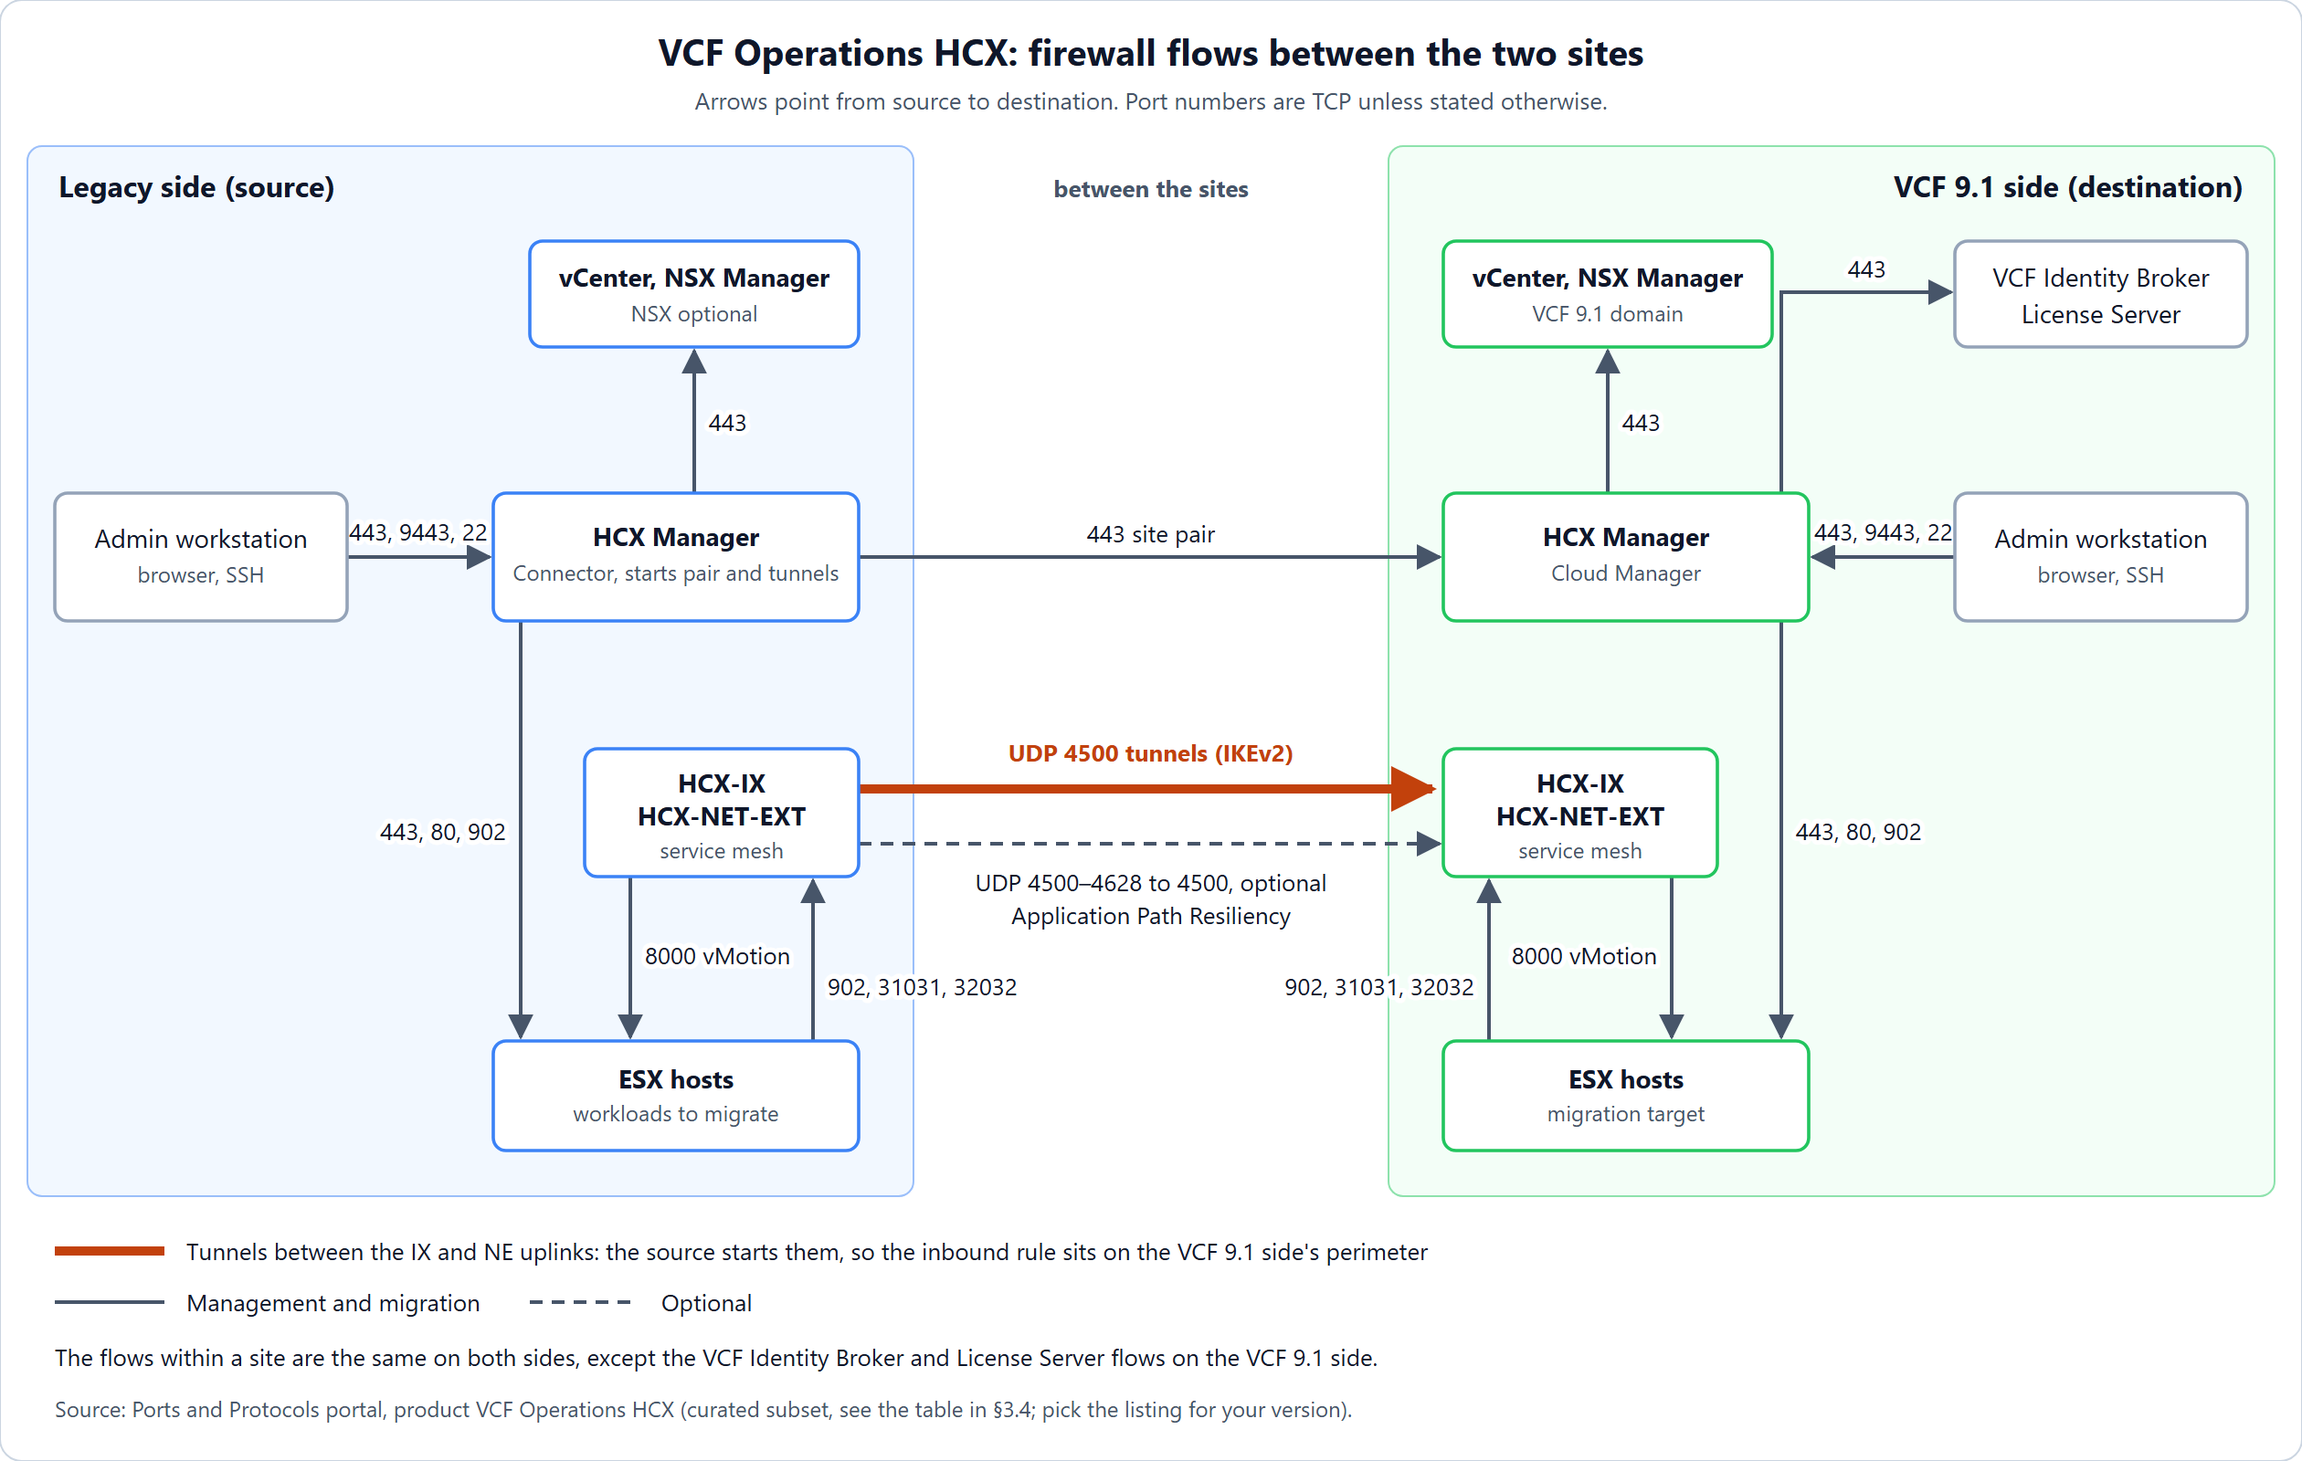
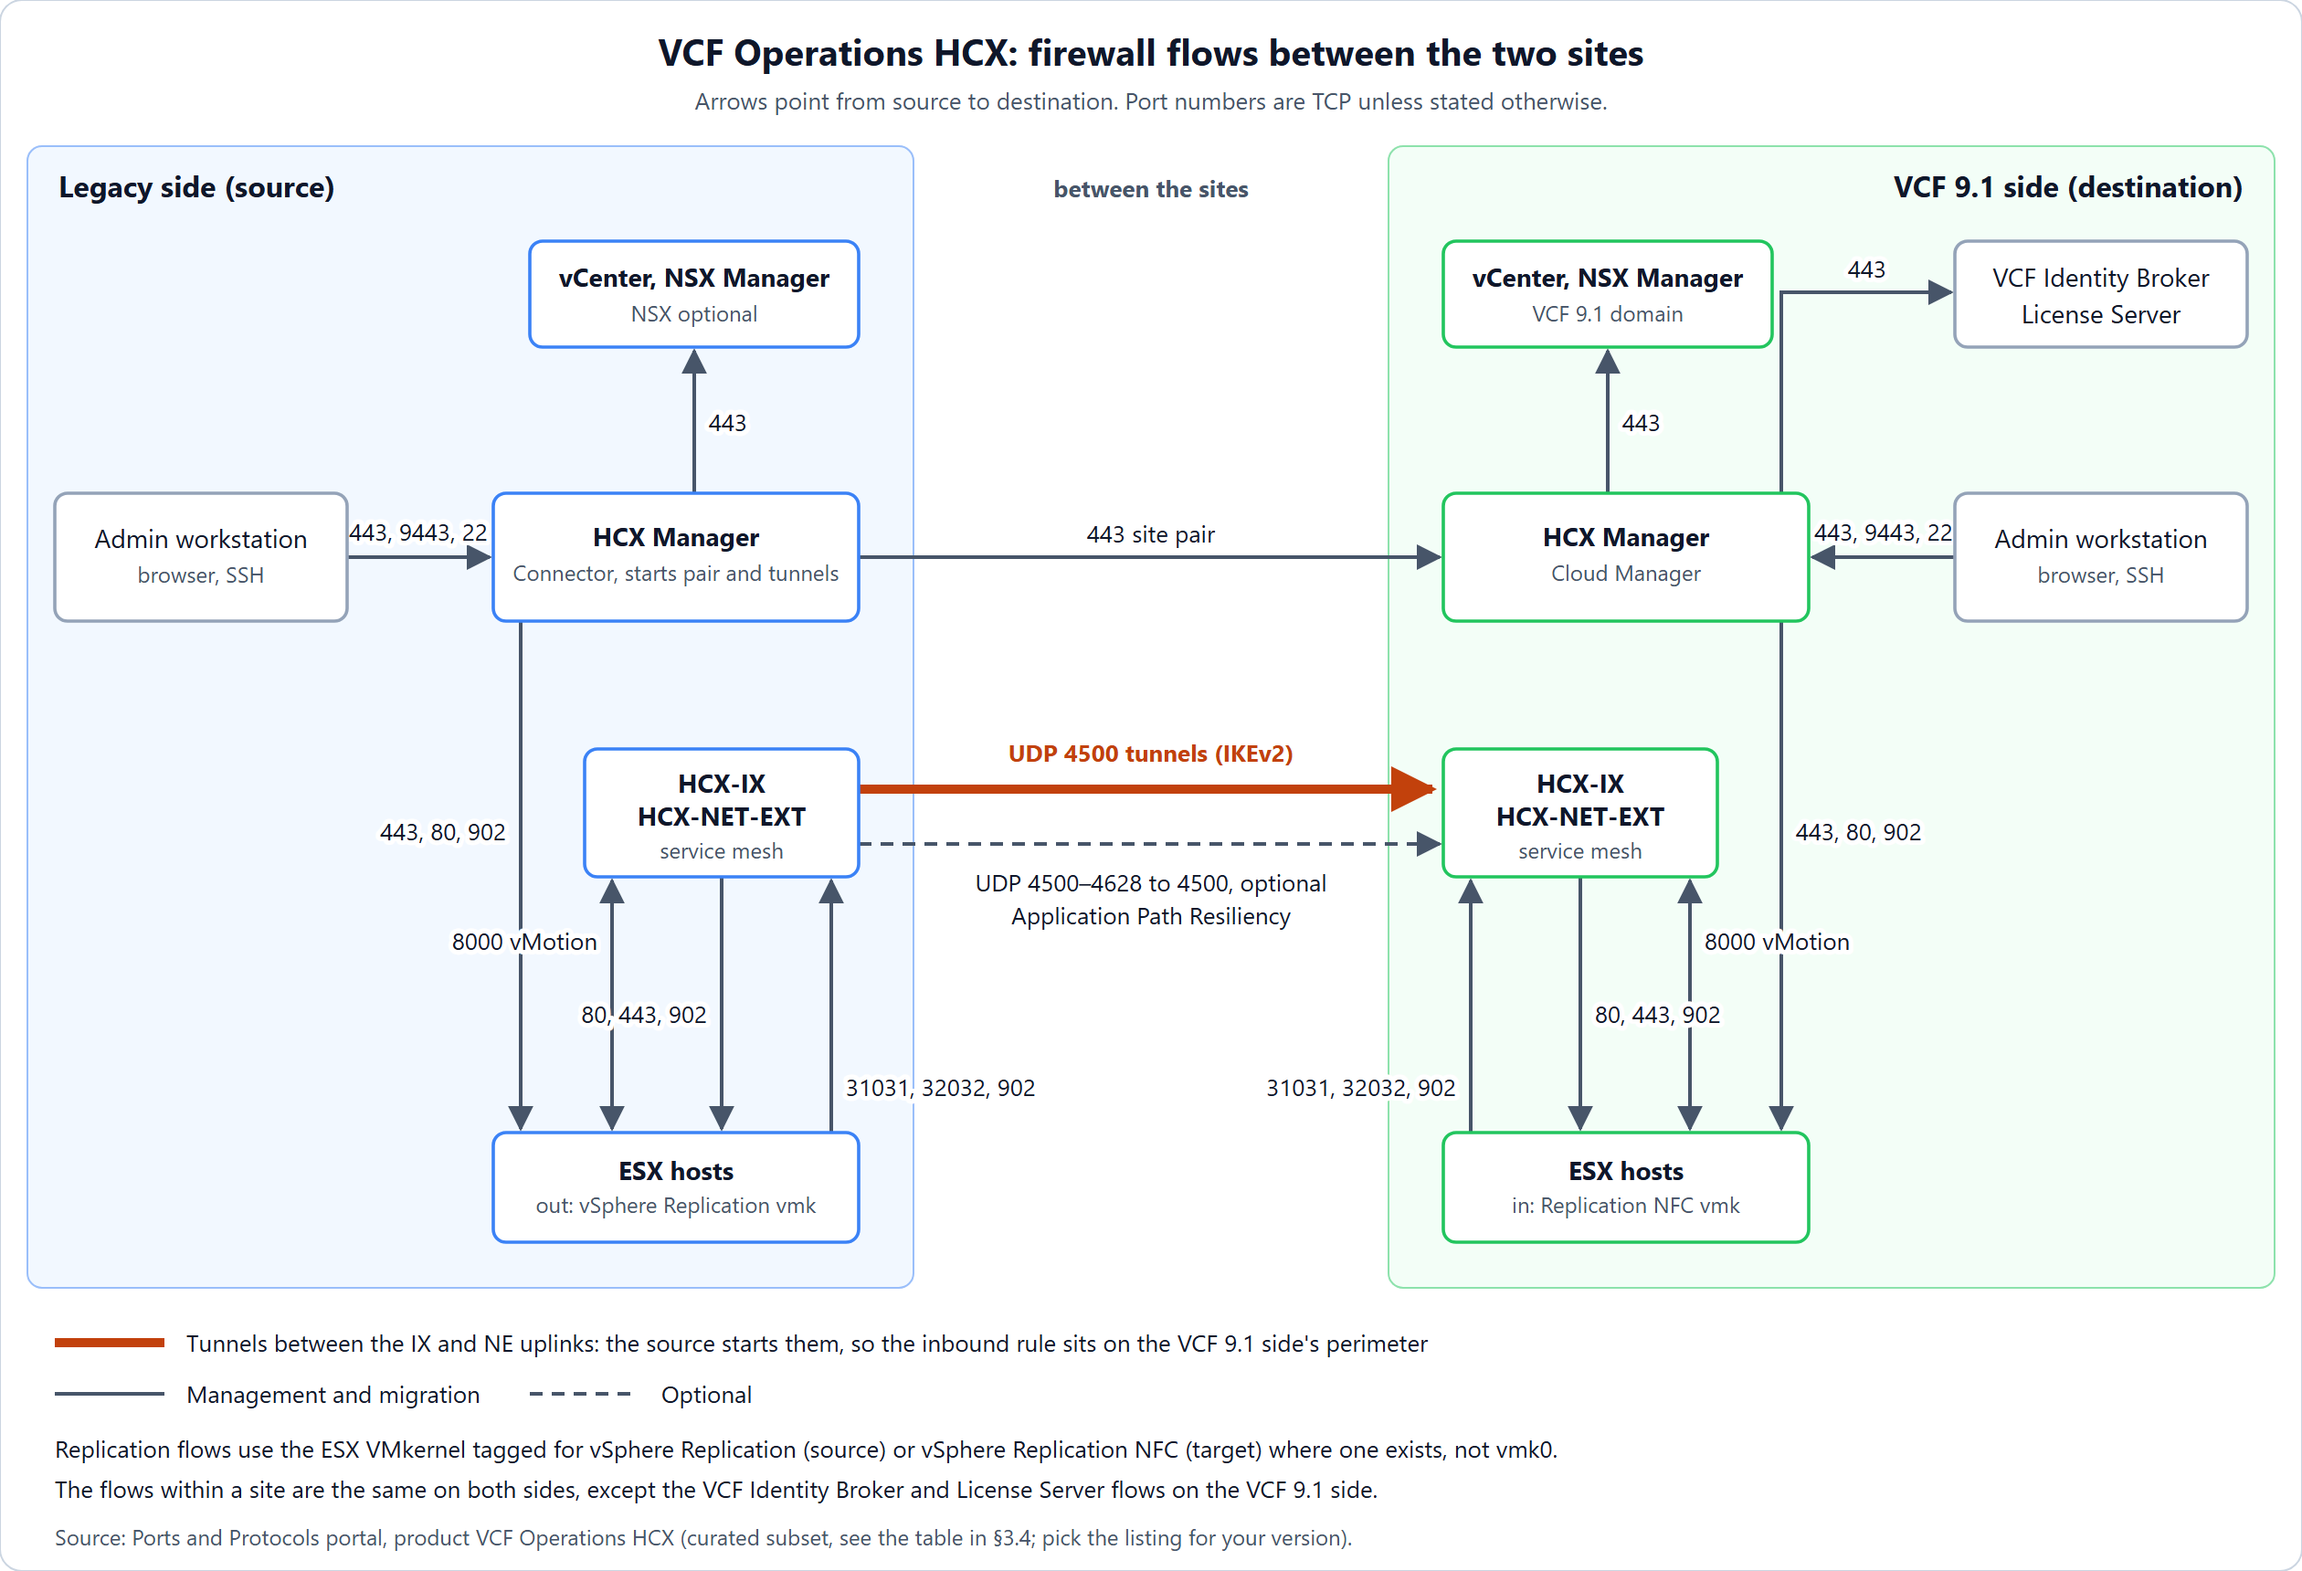
docs/38, docs/07: IX-to-ESX HCX flows and the replication/NFC VMkernel rule (#466)
Adds IX->ESX 80/443/902 and 8000 both ways from the Ports portal, the
migration error per closed flow (KB 447075, 393791, 319757), and a
subsection: replication flows use the vSphere Replication (source) or
vSphere Replication NFC (target) VMkernel, not vmk0; the IX uses its
management interface. Diagram updated.

diff --git a/docs/38-hcx-migration.md b/docs/38-hcx-migration.md
@@ -208,7 +208,7 @@ The authoritative list is the [Ports and Protocols portal][ports] (product
 version). The picture shows the flows below per site; the table is the
 reference.
 
-[![HCX firewall flows between the legacy side and the VCF 9.1 side: source HCX Manager to destination HCX Manager on 443 for the site pair, IX and NE uplink tunnels on UDP 4500 started by the source, optional UDP 4500 to 4628 for Application Path Resiliency, and per site HCX Manager to vCenter, NSX and ESX, IX to ESX vMotion on 8000, ESX to IX on 902, 31031 and 32032, and on the VCF 9.1 side HCX Manager to the VCF Identity Broker and License Server](../web/public/diagrams/hcx-firewall-flows.png)](../web/public/diagrams/hcx-firewall-flows.svg)
+[![HCX firewall flows between the legacy side and the VCF 9.1 side: source HCX Manager to destination HCX Manager on 443 for the site pair, IX and NE uplink tunnels on UDP 4500 started by the source, optional UDP 4500 to 4628 for Application Path Resiliency, and per site HCX Manager to vCenter, NSX and ESX, IX and ESX vMotion on 8000 both ways, IX to ESX on 80, 443 and 902, ESX to IX on 31031, 32032 and 902, with the replication flows on the VMkernel tagged for vSphere Replication (source) or vSphere Replication NFC (target) where one exists, and on the VCF 9.1 side HCX Manager to the VCF Identity Broker and License Server](../web/public/diagrams/hcx-firewall-flows.png)](../web/public/diagrams/hcx-firewall-flows.svg)
 
 The flows that most often need a change request:
 
@@ -219,14 +219,63 @@ The flows that most often need a change request:
 | Source IX / NE | Destination IX / NE | 4500–4628 → 4500 | UDP | Application Path Resiliency (optional) |
 | HCX Manager | vCenter, NSX Manager, ESX | 443 | TCP | Integration, service mesh deployment |
 | HCX Manager | ESX | 80, 902 | TCP | Service mesh deployment |
-| HCX-IX | ESX vMotion IPs | 8000 | TCP | vMotion |
-| ESX | HCX-IX | 902, 31031, 32032 | TCP | Migration and replication |
+| HCX-IX | ESX vMotion IPs, both ways | 8000 | TCP | vMotion |
+| HCX-IX | ESX (management IPs, and the NFC VMkernel IPs where they exist) | 80, 443 | TCP | ESX authentication |
+| HCX-IX | ESX (the NFC VMkernel IPs where they exist, else management) | 902 | TCP | Bulk migration data path |
+| ESX (the vSphere Replication VMkernel where it exists, else management) | HCX-IX | 31031, 32032 | TCP | Bulk replication, unencrypted / encrypted |
+| ESX management | HCX-IX | 902 | TCP | Cold migration |
 | HCX Manager (VCF 9.1 side) | VCF Identity Broker, License Server | 443 | TCP | VCF SSO, licensing |
 | Management workstations | HCX Manager | 443, 9443, 22 | TCP | UI, appliance management, SSH |
+
+The IX-to-ESX rows are the ones that show up later as migration errors rather
+than at deployment: with 443 from the IX to the target ESX hosts closed, a Bulk
+or RAV migration stalls with *"Storage not accessible error observed"*
+([KB 447075](https://knowledge.broadcom.com/external/article/447075)); with 902
+closed, a reverse migration fails with the same message
+([KB 393791](https://knowledge.broadcom.com/external/article/393791)); with
+31031 (*"or 44046 for RAV"*) closed from the ESX hosts to the IX, the base sync
+stays at 0% ([KB 319757](https://knowledge.broadcom.com/external/article/319757)).
+The IX-to-ESX 902 row is in the portal's 9.1.0 listing, not in its 9.1.1
+listing (captured 2026-09-23); KB 393791 needs it either way.
 
 Because the source starts the tunnels, the inbound rule sits on the **VCF 9.1
 side's** perimeter. Add these flows to your copy of
 [`07-firewall-ports.md`](07-firewall-ports.md) §G.
+
+#### Replication and NFC VMkernels: the flow goes there, not to vmk0
+
+The portal names *"ESX Management IP addresses"* for the replication flows.
+That is only right when the hosts carry replication on vmk0. Bulk migration and
+RAV use vSphere Replication, with the HCX-IX as the replication server, and
+ESX sends and receives replication traffic on the VMkernel that is tagged for
+it:
+
+- **Source hosts, outgoing:** *"vSphere Replication traffic: Handles the
+  outgoing replication data that the source ESX host transfers to the vSphere
+  Replication server"*. On a host with a VMkernel tagged **vSphere
+  Replication**, the 31031 / 32032 flow to the source IX leaves from that
+  VMkernel's IP, not from vmk0.
+- **Target hosts, incoming:** *"vSphere Replication NFC traffic: Handles the
+  incoming replication data on the target replication site"*
+  ([vSphere 9.1, The VMkernel Networking Layer](https://techdocs.broadcom.com/us/en/vmware-cis/vsphere/vsphere/9-1/vsphere-networking/setting-up-vmkernel-networking/the-vmkernel-networking-layer.html)).
+  On a host with a VMkernel tagged **vSphere Replication NFC**, *"The vSphere
+  Replication hbrsrv service routes the replication data to the adapter"*
+  ([Set Up a VMkernel Adapter for vSphere Replication Traffic on a Target Host](https://techdocs.broadcom.com/us/en/vmware-cis/live-recovery/vsphere-replication/9-0-4/using-vsphere-replication/isolating-the-vr-traffic-from-the-data-center-network/set-up-a-vmkernel-adapter-for-vr-traffic-on-target.html)).
+  So the target IX's flows to the host (902, and 443 per KB 447075) go to that
+  VMkernel's IP, not to vmk0. KB 447075 describes exactly this case: the test
+  *"might fail on a specific VMkernel interface with the replication service
+  enabled (e.g., vmk1), while succeeding on others (e.g., vmk0)"*.
+- **The IX side** is different: *"The HCX appliance always uses its Management
+  interface for vSphere Replication NFC traffic"*, also when the IX has a
+  dedicated Replication network profile, which *"cannot be used for vSphere
+  Replication NFC VMkernel traffic"*
+  ([Network Profile Considerations and Concepts](https://techdocs.broadcom.com/us/en/vmware-cis/vcf/vcf-9-0-and-later/9-1/workload-mobility/getting-started-with-vmware-hcx-vcf-9-0/hcx-deployment-considerations/network-profile-considerations-and-concepts.html)).
+  The source of the IX-to-ESX rule is the IX's **management** IP.
+
+In practice: per host, list which VMkernel carries *vSphere Replication* and
+which carries *vSphere Replication NFC*, and write those IPs (not vmk0's) into
+the rules above. Keep the management IPs for 80 and 443 as well. Only one
+VMkernel per host should be tagged for vSphere Replication (KB 319757).
 
 ---
 

diff --git a/docs/07-firewall-ports.md b/docs/07-firewall-ports.md
@@ -253,7 +253,10 @@ below come from field experience and inference, and each row says which.
 > ([`38-hcx-migration.md`](38-hcx-migration.md)). The legacy side always starts
 > the tunnels, so the inbound rules sit on the VCF 9.1 side. Full list:
 > [Ports and Protocols](https://ports.broadcom.com/), product *VCF Operations HCX*
-> (9.1.0 and 9.1.1 listings differ).
+> (9.1.0 and 9.1.1 listings differ). On hosts with a VMkernel tagged for
+> vSphere Replication or vSphere Replication NFC, the replication rows use that
+> VMkernel's IPs, not vmk0's: see
+> [`38-hcx-migration.md`](38-hcx-migration.md#replication-and-nfc-vmkernels-the-flow-goes-there-not-to-vmk0) §3.4.
 
 | Source | Destination | Port(s) | Proto | Purpose |
 | ------ | ----------- | ------- | ----- | ------- |
@@ -262,8 +265,11 @@ below come from field experience and inference, and each row says which.
 | Legacy IX / NE | VCF 9.1 IX / NE | 4500-4628 → 4500 | UDP | Application Path Resiliency (optional) |
 | HCX Manager (each side) | vCenter, NSX Manager, ESX | 443 | TCP | Integration, service mesh deployment |
 | HCX Manager (each side) | ESX | 80, 902 | TCP | Service mesh deployment |
-| HCX-IX | ESX vMotion IPs | 8000 | TCP | vMotion |
-| ESX | HCX-IX | 902, 31031, 32032 | TCP | Migration and replication |
+| HCX-IX | ESX vMotion IPs, both ways | 8000 | TCP | vMotion |
+| HCX-IX (management IP) | ESX (management IPs, and the NFC VMkernel IPs where they exist) | 80, 443 | TCP | ESX authentication |
+| HCX-IX (management IP) | ESX (the NFC VMkernel IPs where they exist, else management) | 902 | TCP | Bulk migration data path |
+| ESX (the vSphere Replication VMkernel where it exists, else management) | HCX-IX | 31031, 32032 | TCP | Bulk replication, unencrypted / encrypted |
+| ESX management | HCX-IX | 902 | TCP | Cold migration |
 | VCF 9.1 HCX Manager | VCF Identity Broker, License Server | 443 | TCP | VCF SSO, licensing |
 | Management workstations | HCX Manager (each side) | 443, 9443, 22 | TCP | UI, appliance management, SSH |
 

diff --git a/CHANGELOG.md b/CHANGELOG.md
@@ -1,5 +1,20 @@
 # Changelog
 
+## v6.9.5 – 2026-11-13
+- `docs/38` §3.4 and `docs/07` §G *HCX firewall flows* (#466): added the
+  HCX-IX-to-ESX flows the Ports and Protocols portal lists (80/443 ESX
+  authentication, 902 Bulk data path; 8000 now both ways; ESX-to-IX 902
+  for Cold), with the migration error each one causes when closed (KB
+  447075: 443 closed gives *Storage not accessible error observed*, seen in
+  the field on 2026-11-13; KB 393791: 902 on a reverse migration; KB 319757:
+  31031/44046 and 0% base sync). New subsection *Replication and NFC
+  VMkernels*: on hosts with a VMkernel tagged for vSphere Replication
+  (source) or vSphere Replication NFC (target), the replication flows use
+  that VMkernel's IPs, not vmk0's (vSphere 9.1 VMkernel networking layer,
+  vSphere Replication target-host page, KB 447075), while the IX always uses
+  its management interface for NFC (HCX 9.1 Network Profile
+  Considerations). Diagram updated and re-rendered.
+
 ## v6.9.4 — 2026-11-13
 - `docs/38` §3.4 *Firewall flows* (#465): new diagram
   (`web/public/diagrams/hcx-firewall-flows.svg` + 2x PNG) with the legacy
